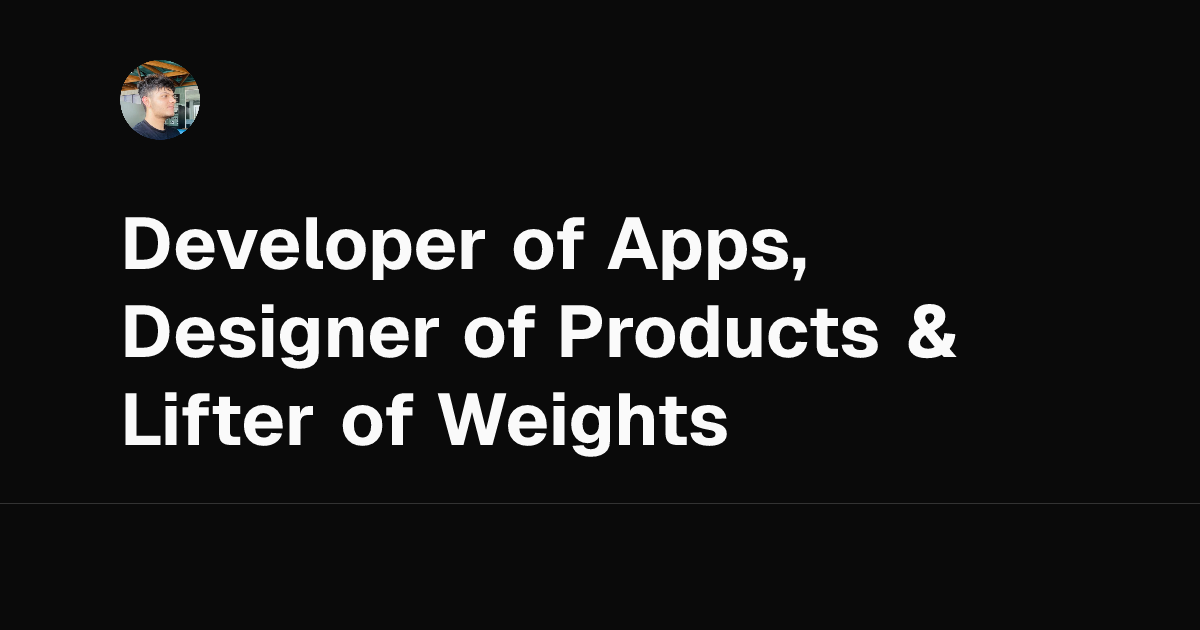
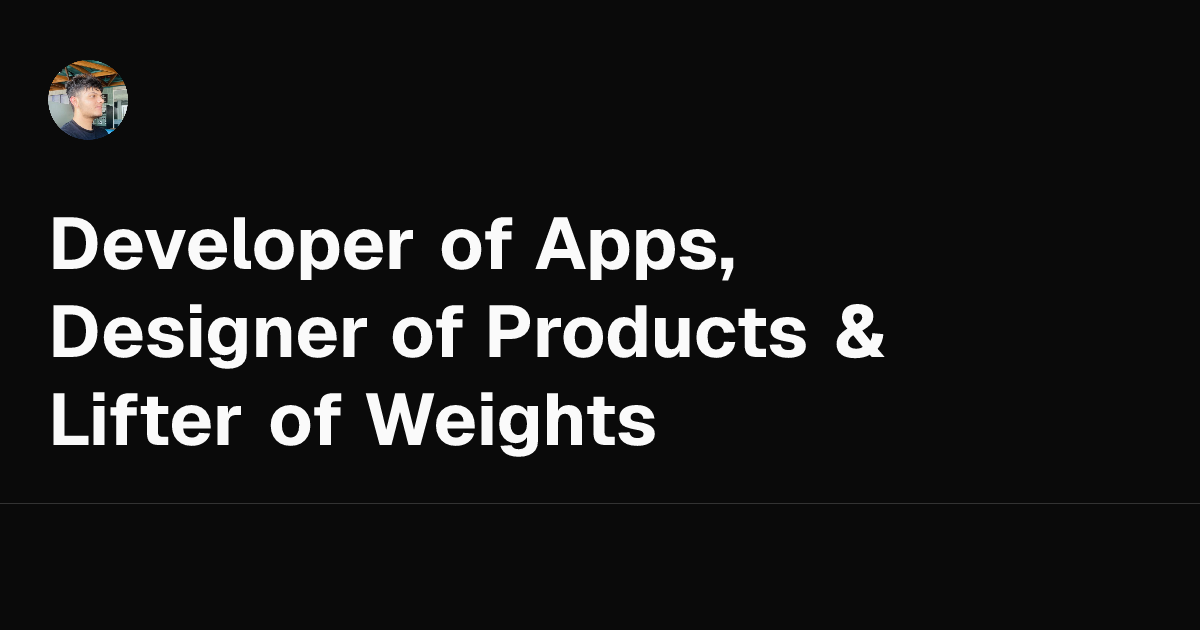
asymmetric og padding: tighter left, wider right

diff --git a/scripts/generate-og.tsx b/scripts/generate-og.tsx
@@ -150,7 +150,7 @@ async function renderOgImage(opts: OgInputs): Promise<Buffer> {
           width: "100%",
           height: "80%",
           borderBottom: "1px solid #333",
-          padding: "60px 120px 40px",
+          padding: "60px 168px 40px 48px",
         }}
       >
         <img
